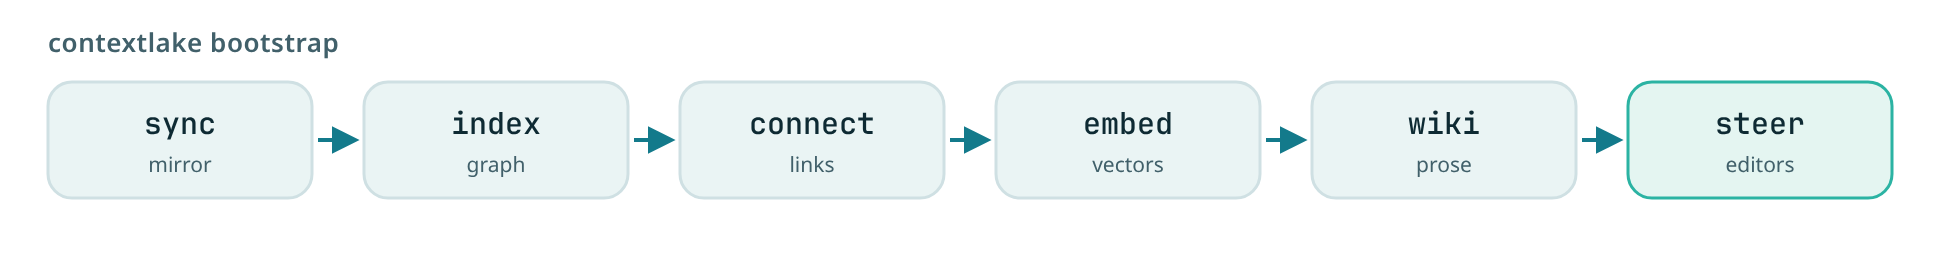
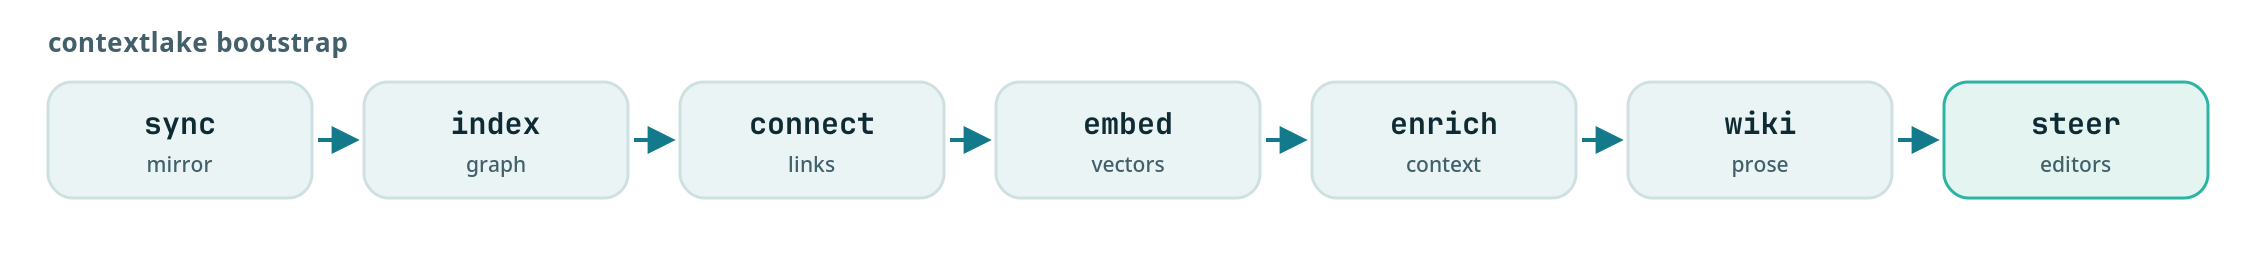
docs: add enrich stage to the bootstrap pipeline diagram
Regenerated pipeline-bootstrap.png from gen_diagrams.py with the enrich
stage between embed and wiki (rasterized SVG at 2x), and updated the alt
text to match the shipped 7-stage bootstrap order.

diff --git a/site/tools/gen_diagrams.py b/site/tools/gen_diagrams.py
@@ -61,6 +61,7 @@ pipeline(
 # the bootstrap pipeline (knowledge layer / quickstart)
 pipeline(
     [("sync", "mirror"), ("index", "graph"), ("connect", "links"),
-     ("embed", "vectors"), ("wiki", "prose"), ("steer", "editors")],
+     ("embed", "vectors"), ("enrich", "context"), ("wiki", "prose"),
+     ("steer", "editors")],
     "pipeline-bootstrap.svg", "contextlake bootstrap pipeline",
     sub="contextlake bootstrap")

diff --git a/docs/knowledge-layer.md b/docs/knowledge-layer.md
@@ -155,7 +155,7 @@ with `--repo <repo>` rather than getting a silent best-guess.
 ## One-command setup
 
 <p align="center">
-  <img src="https://raw.githubusercontent.com/sayak-sarkar/contextlake/main/docs/img/pipeline-bootstrap.png" alt="The contextlake bootstrap pipeline: sync, then index, then connect, then embed, then wiki, then steer." width="760">
+  <img src="https://raw.githubusercontent.com/sayak-sarkar/contextlake/main/docs/img/pipeline-bootstrap.png" alt="The contextlake bootstrap pipeline: sync, then index, then connect, then embed, then enrich, then wiki, then steer." width="760">
 </p>
 
 Rather than running the steps by hand, `bootstrap`
